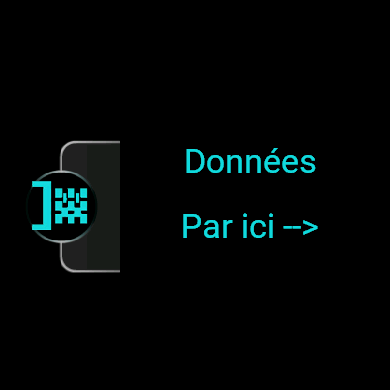
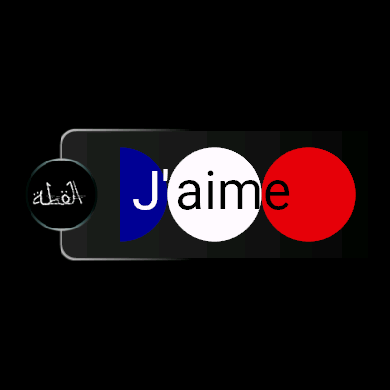
updated photos and readme

Changed region(s): [[0.0615, 0.3077, 0.9231, 0.7077]]

diff --git a/README.md b/README.md
@@ -1,10 +1,11 @@
 #garmin-widget
 
-There is no glance code in the Samples, I found this on Reddit.
+There is no glance code in the Samples, I found this code (in source) on Reddit.
+
+Glance:
 <img src="assets/glance1.png"><br><br>
 
-Données par ici means data this way.
-
+Altitude and Pression (Pressure in inHg)
 <img src="assets/altitude.png">
 
-Off to a good start. The altitude works since I went outside and calibrated my watch. Now it changes when I go up and down the stairs, so it's pretty accurate.
+Off to a good start. The altitude works when I'm outside and calibrate my watch. It changes when I go up and down the stairs, so it's pretty accurate. The watch's pressure sensor seems accurate too when comparing with other sources.
